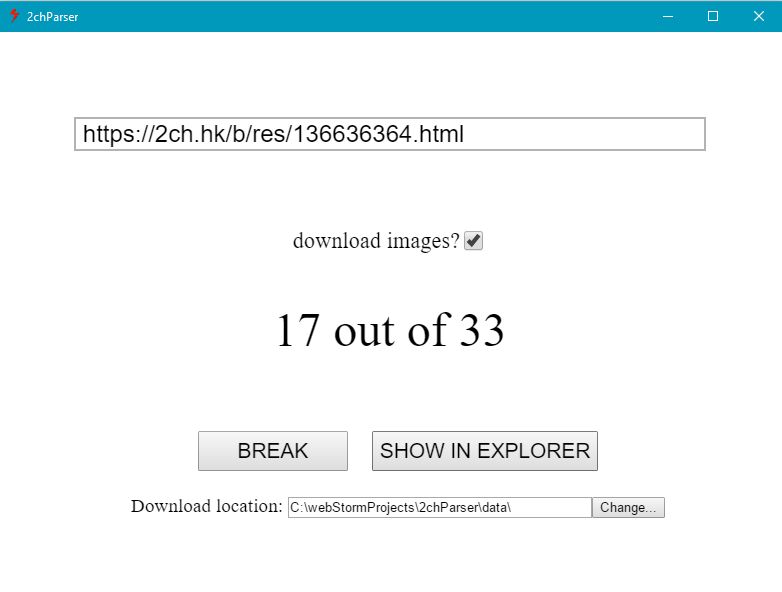
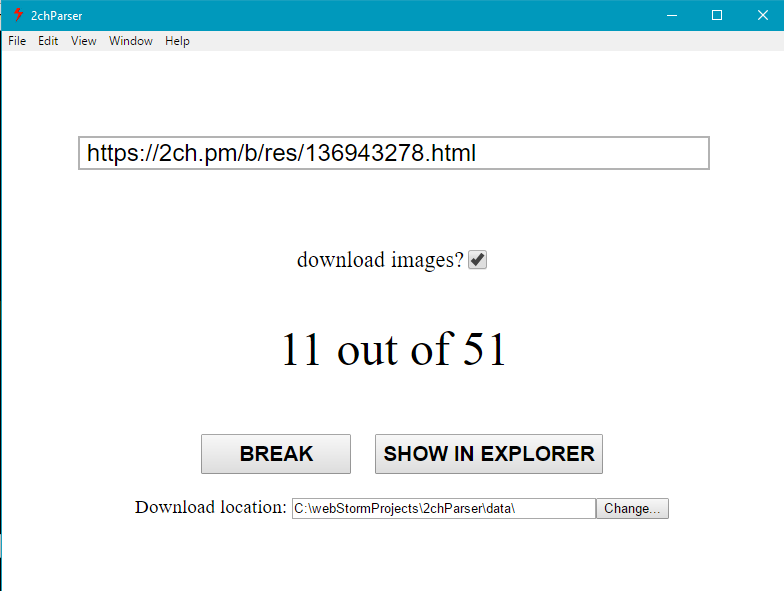
adaptation for https://2ch.pm

diff --git a/app/parser.js b/app/parser.js
@@ -1,4 +1,5 @@
 const https = require('https');
+const url = require('url');
 
 const fs = require('fs');
 
@@ -11,12 +12,14 @@ const mainProcess = remote.require('./main');
 var withImgs = false;
 var fileCounter = 0;
 var arrOfLinks = [];
+var addressLink = '';
 
 var folder = __dirname + "\\data\\";
 
 $('#folderAddress').val(folder);
 
 exports.getFiles = function (address) {
+    addressLink = address;
     address = address.replace('.html', '.json');
     request({uri: address, method: 'GET', encoding: 'utf8'},
         (err, res) => {
@@ -54,8 +57,12 @@ exports.getFiles = function (address) {
 };
 
 function downloadFile(path) {
+    var ulrObj = url.parse(addressLink);
+    var protocol = ulrObj.protocol;
+    var host = ulrObj.host;
+    var board = /\/\w{0,5}\//.exec(ulrObj.pathname);
     
-    var href = 'https://2ch.hk/b/' + path;
+    var href = protocol + "//" + host + board + path;
     var name = /\d{13,15}/.exec(path);
     var extension = /\.\w{0,10}/.exec(path);
     var fileAddress = folder + name + extension;

diff --git a/parser.js b/parser.js
@@ -1,4 +1,5 @@
 const https = require('https');
+const url = require('url');
 
 const fs = require('fs');
 
@@ -11,12 +12,14 @@ const mainProcess = remote.require('./main');
 var withImgs = false;
 var fileCounter = 0;
 var arrOfLinks = [];
+var addressLink = '';
 
 var folder = __dirname + "\\data\\";
 
 $('#folderAddress').val(folder);
 
 exports.getFiles = function (address) {
+    addressLink = address;
     address = address.replace('.html', '.json');
     request({uri: address, method: 'GET', encoding: 'utf8'},
         (err, res) => {
@@ -54,8 +57,12 @@ exports.getFiles = function (address) {
 };
 
 function downloadFile(path) {
+    var ulrObj = url.parse(addressLink);
+    var protocol = ulrObj.protocol;
+    var host = ulrObj.host;
+    var board = /\/\w{0,5}\//.exec(ulrObj.pathname);
     
-    var href = 'https://2ch.hk/b/' + path;
+    var href = protocol + "//" + host + board + path;
     var name = /\d{13,15}/.exec(path);
     var extension = /\.\w{0,10}/.exec(path);
     var fileAddress = folder + name + extension;

diff --git a/app/style.css b/app/style.css
@@ -50,6 +50,7 @@ body {
     height: 40px;
     font-size: 1.3em;
     margin: 10px;
+    font-weight: 600;
 }
 
 #btn-showFiles {

diff --git a/style.css b/style.css
@@ -50,6 +50,7 @@ body {
     height: 40px;
     font-size: 1.3em;
     margin: 10px;
+    font-weight: 600;
 }
 
 #btn-showFiles {
